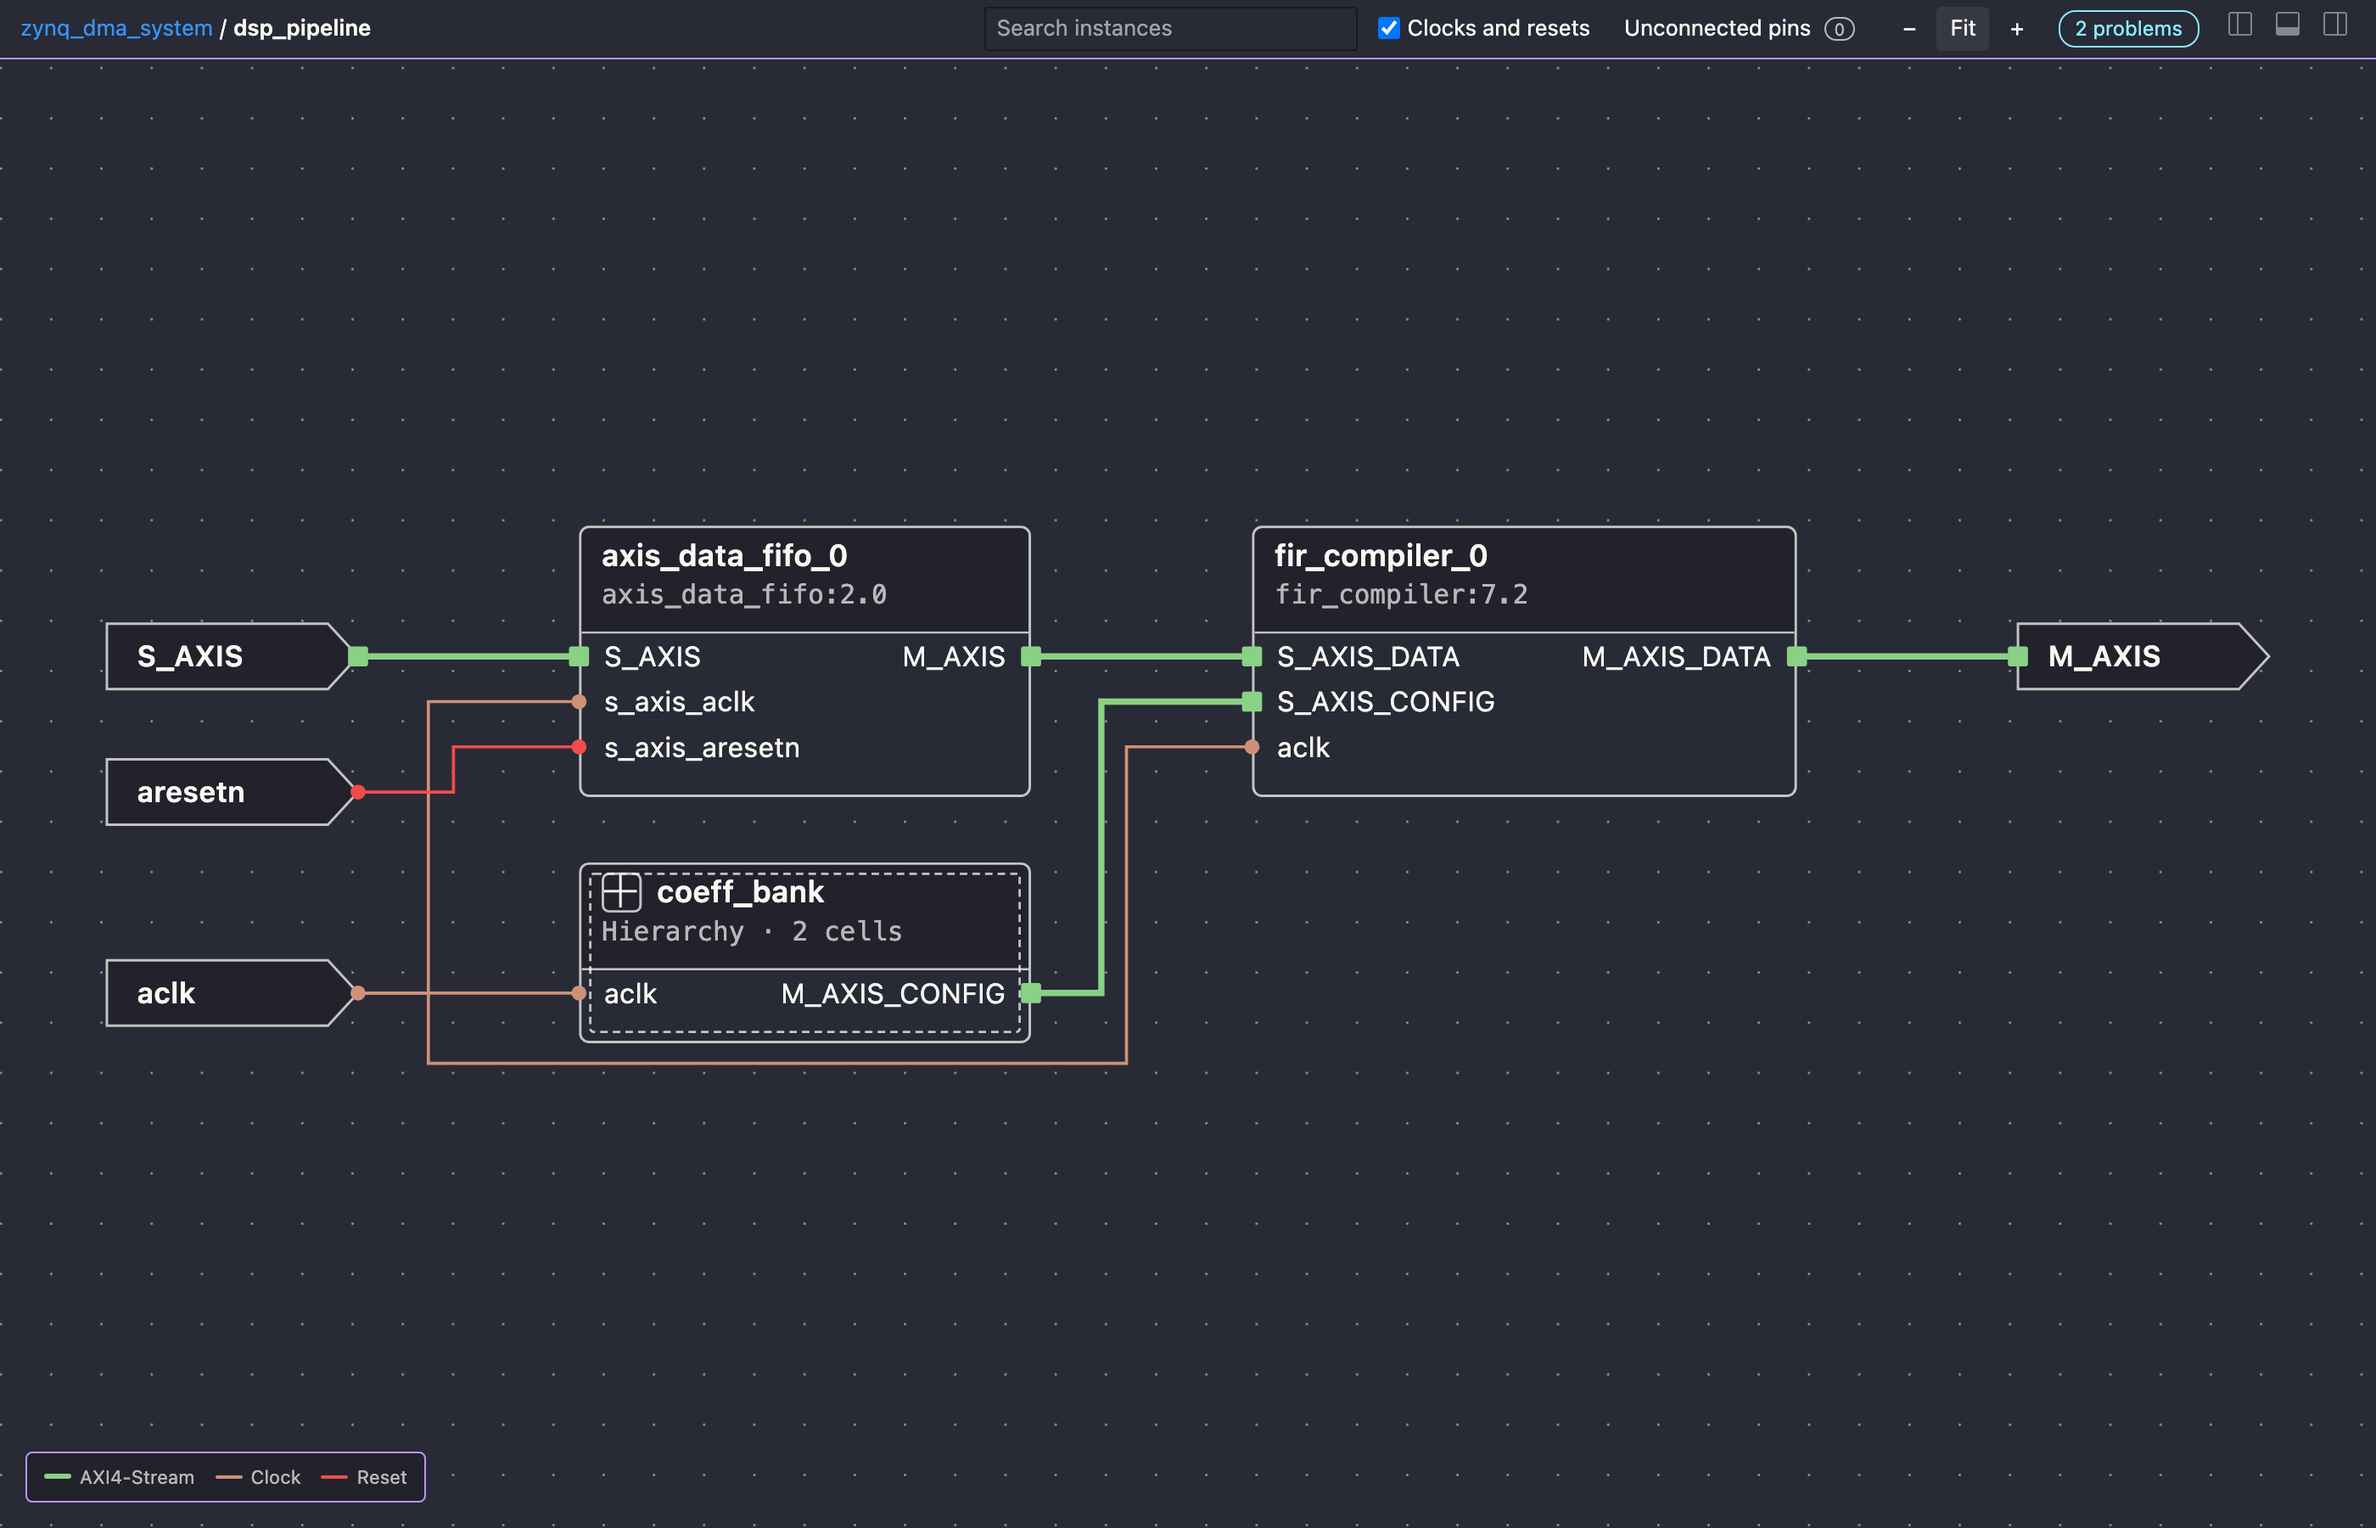
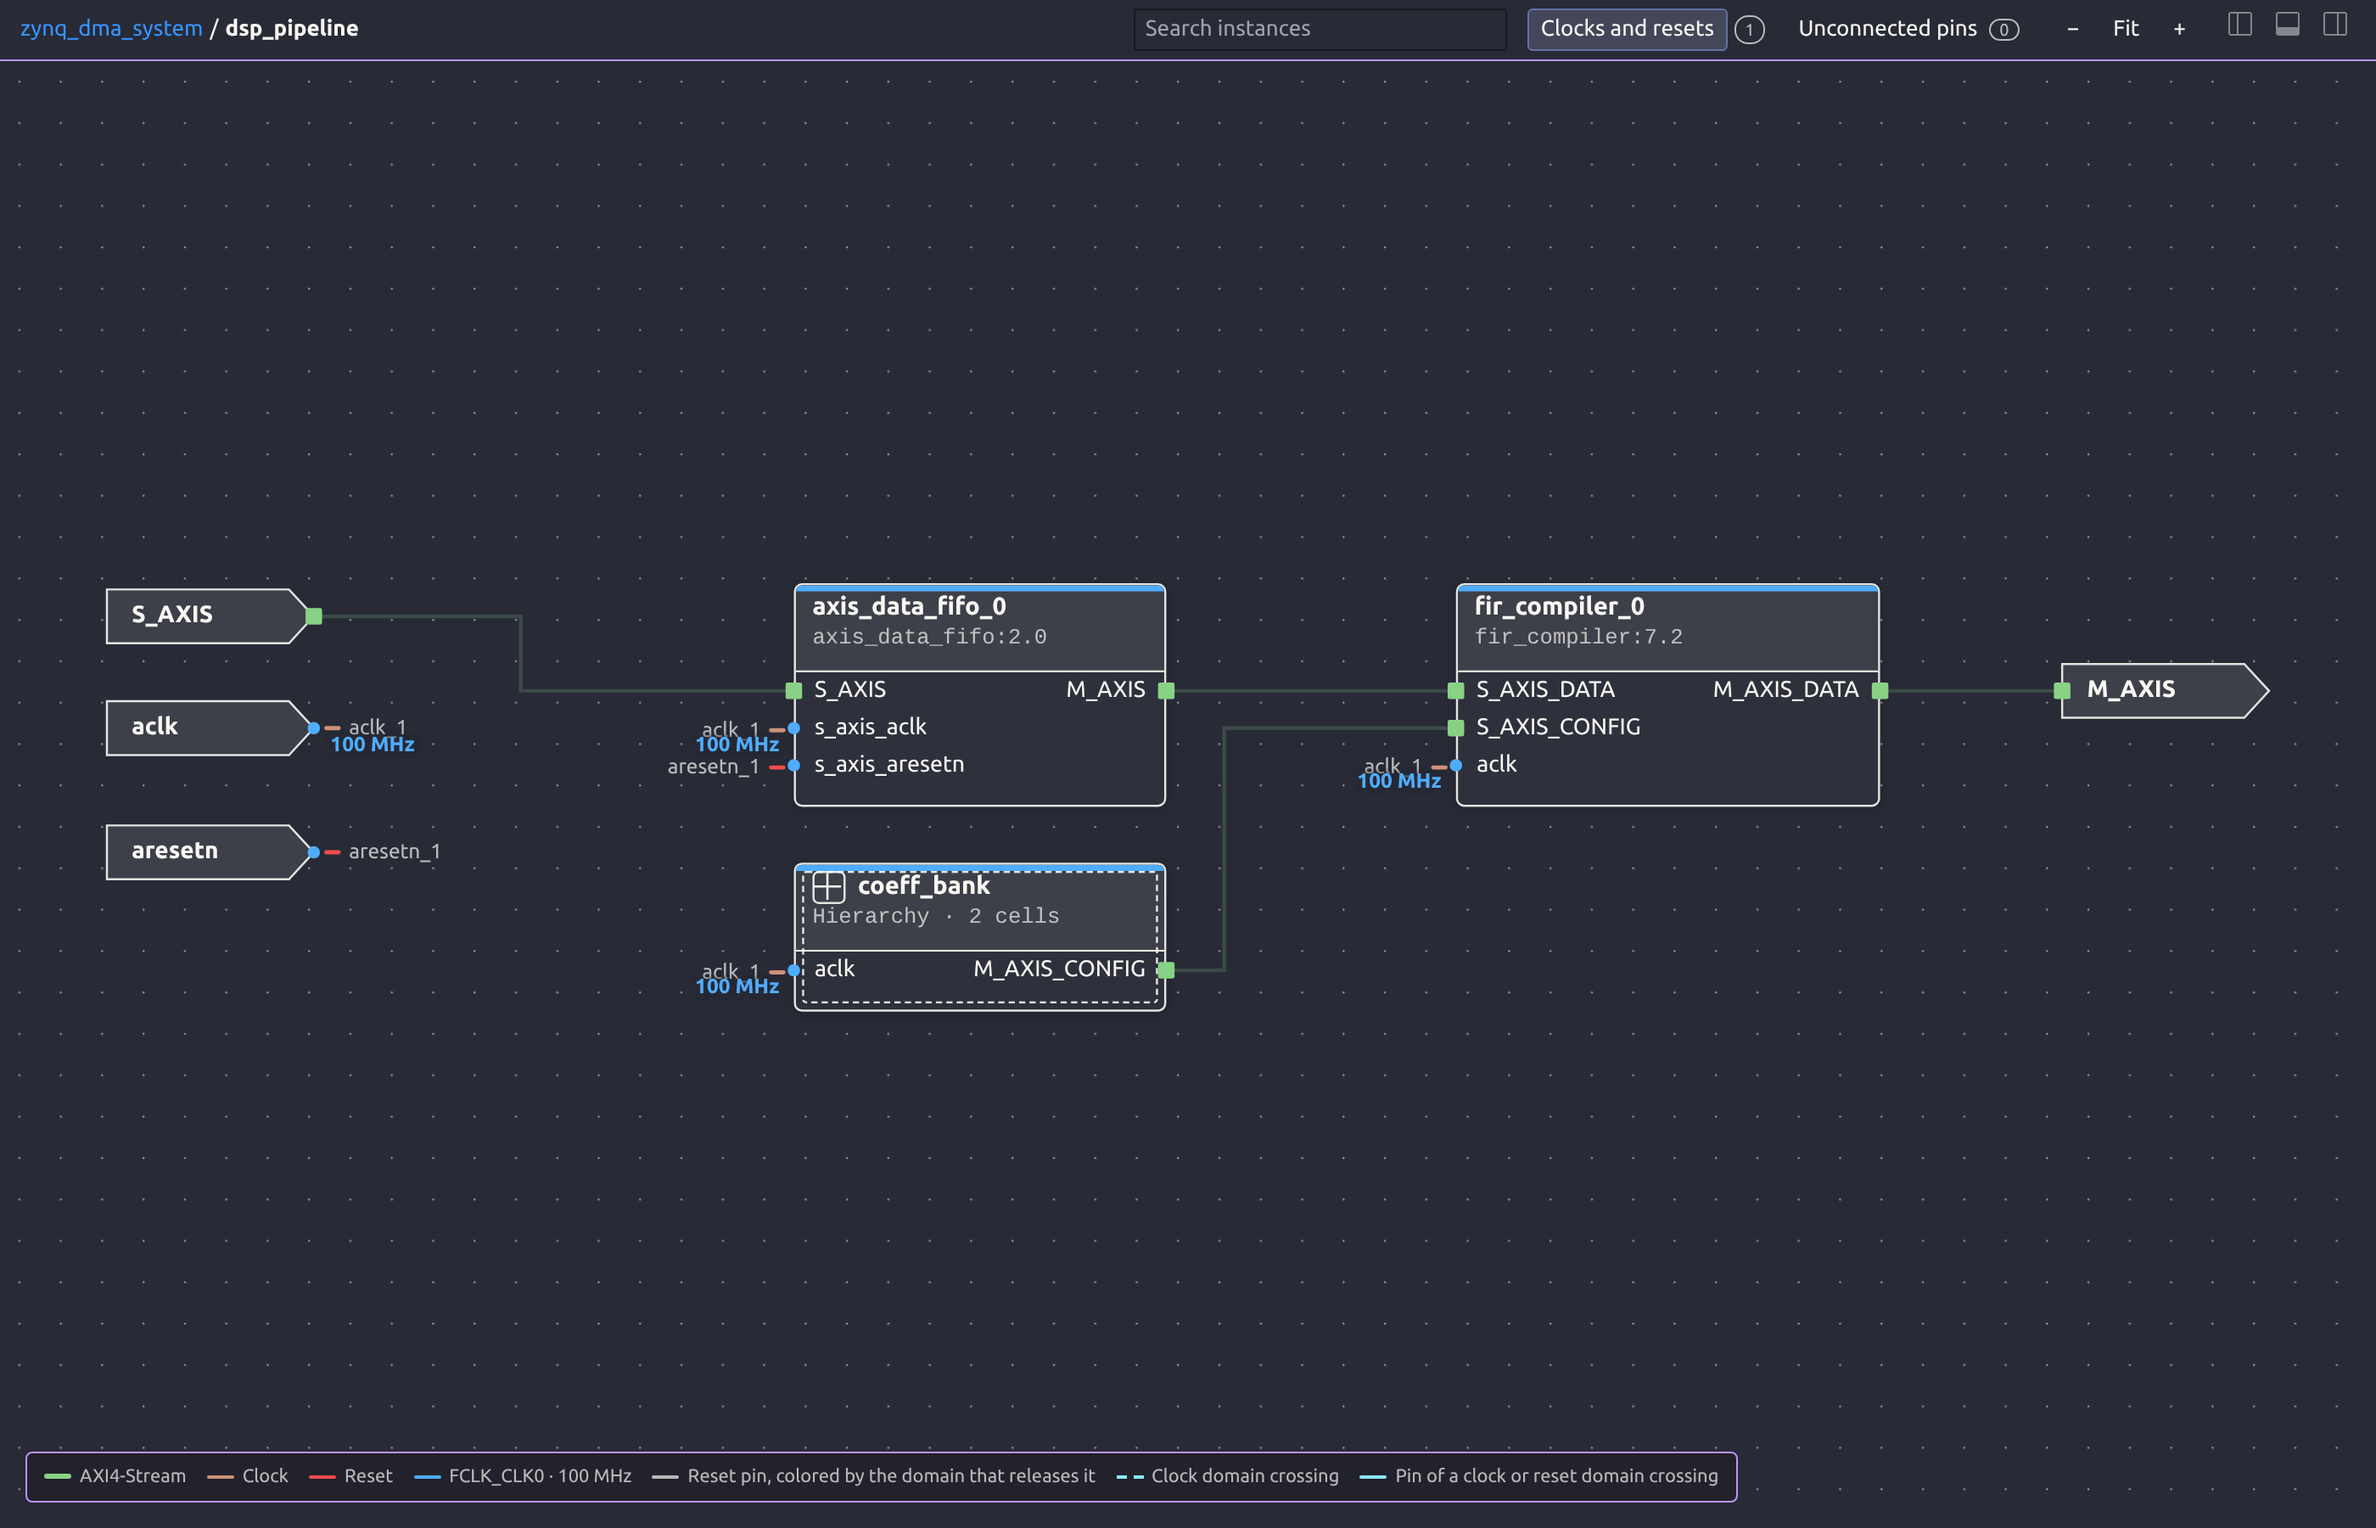
fix(system-viewer): keep dimmed wires at full color
With Clocks and resets on, wires off a crossing are drawn at 20 percent
opacity. The resting wire muting stacked on top of that and made them
nearly invisible; a dimmed wire now keeps its full color, as before the
restyle.

The hierarchy docs screenshot waited for Clocks and resets to add wires,
which it no longer does since clock and reset nets became badges; it now
waits for the toggle to be pressed. Regenerated in both themes.

Refs #261

diff --git a/scripts/docs-screenshots/shots.ts b/scripts/docs-screenshots/shots.ts
@@ -72,12 +72,10 @@ async function setupSystemHierarchy(page: Page): Promise<void> {
   await untilViewportChanges(page, () =>
     page.locator('.react-flow__node[data-id="/dsp_pipeline"]').dblclick()
   );
-  const edges = page.locator('.react-flow__edge');
-  const before = await edges.count();
-  await page.getByText('Clocks and resets').click();
-  await expect.poll(() => edges.count()).toBeGreaterThan(before);
-  // Fit after the clock and reset nets changed the layout.
-  await untilViewportChanges(page, () => page.getByRole('button', { name: 'Fit' }).click());
+  // Clocks and resets only decorates the level: no wire is added and no block moves.
+  const clocks = page.getByRole('button', { name: 'Clocks and resets' });
+  await clocks.click();
+  await expect(clocks).toHaveAttribute('aria-pressed', 'true');
 }
 
 async function setupSystemAddressMap(page: Page): Promise<void> {

diff --git a/src/webview/systemDiagram/ElkEdge.tsx b/src/webview/systemDiagram/ElkEdge.tsx
@@ -21,9 +21,11 @@ export function ElkEdge({ id, data, selected }: EdgeProps<ElkFlowEdge>) {
     (selected ? 1.5 : 0) +
     (data.highlightColor !== undefined ? 1.25 : 0);
   const baseColor = data.domainColor ?? categoryColor(data.category);
+  // A dimmed wire is already faded; muting it as well would hide it.
+  const fullColor = selected === true || data.dimmed === true;
   const stroke = data.crossing
     ? CROSSING_COLOR
-    : (data.highlightColor ?? (selected ? baseColor : restingWireColor(baseColor)));
+    : (data.highlightColor ?? (fullColor ? baseColor : restingWireColor(baseColor)));
   const dash = data.crossing ? DASHED : undefined;
   return (
     <BaseEdge

diff --git a/src/webview/systemDiagram/colors.ts b/src/webview/systemDiagram/colors.ts
@@ -18,7 +18,8 @@ export function categoryColor(category: NetCategory | undefined): string {
 
 /**
  * A wire at rest: its color mixed toward the canvas, so blocks carry the visual
- * weight. Selected, highlighted and crossing wires keep the full color.
+ * weight. Selected, highlighted, crossing and dimmed (already faded) wires
+ * keep the full color.
  */
 export function restingWireColor(color: string): string {
   return `color-mix(in srgb, ${color} 65%, var(--vscode-editor-background))`;

diff --git a/src/test/suite/webview/systemDiagram/DiagramCanvasClocks.test.tsx b/src/test/suite/webview/systemDiagram/DiagramCanvasClocks.test.tsx
@@ -240,6 +240,7 @@ describe('ElkEdge', () => {
 
   it('fades a dimmed wire unless it is selected', () => {
     expect(drawn({ dimmed: true }).style.opacity).toBe('0.2');
+    expect(drawn({ dimmed: true }).style.stroke).toBe('var(--vscode-charts-orange)');
     expect(drawn({ dimmed: true }, true).style.opacity).toBe('');
   });
 });
